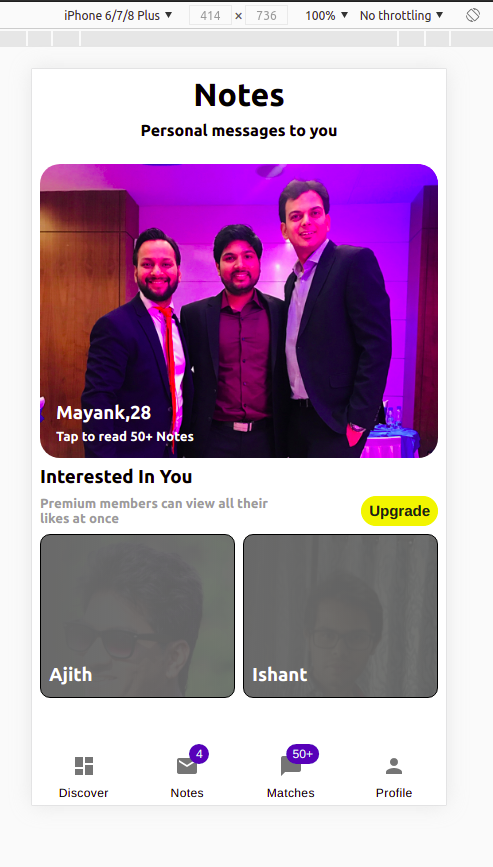
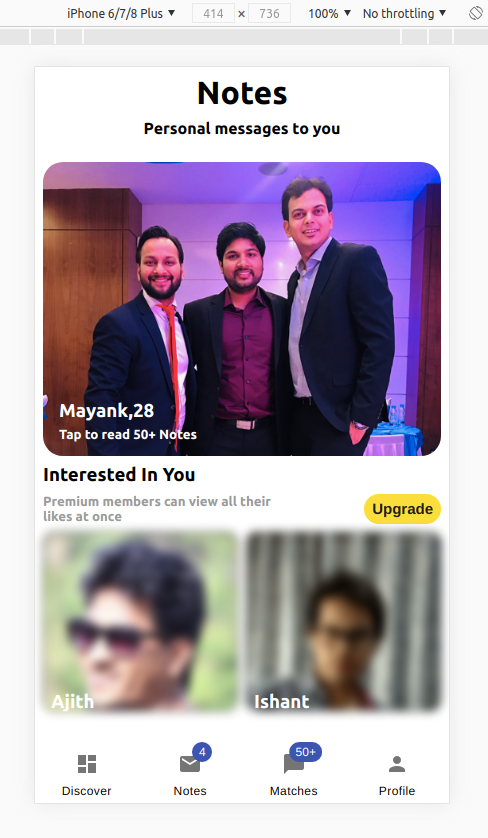
changes in home component

diff --git a/src/components/Home.js b/src/components/Home.js
@@ -55,7 +55,7 @@ const useStyles = makeStyles((theme) => ({
         color: 'white',
         padding: "0px",
         margin: "0px",
-        filter: 'none! important'
+        filter: 'none !important'
 
     },
     label: {
@@ -134,23 +134,17 @@ const Home = (props) => {
                             </button>
                         </Grid>
                         {details.likes.profiles.map((profile, index) => (
-                            <Grid item xs={6} sm={6} md={3} lg={3}>
-                                <div key={index} style={{ backgroundImage: `linear-gradient(90deg, rgba(105,105,105,1), rgba(105,105,105,0.95), rgba(105,105,105,0.9)),url(${profile.avatar})`, border: '1px solid black', height: "22vh", backgroundSize: "cover", borderRadius: "10px" }}>
+                            <Grid item xs={6} sm={6} md={3} lg={3} key={index}>
+                                <div style={{ position: 'relative' }}>
+                                    <div style={{ position: 'abbsolute', backgroundImage: `url(${profile.avatar})`, filter: "blur(5px)", zIndex: -1, border: '1px solid black', height: "24vh", backgroundSize: "cover", borderRadius: "10px" }}>
+                                    </div>
                                     <div className={classes.detailDivBlur}>
-                                        <h3 key={index} className={classes.blurName} >{profile.first_name}</h3>
+                                        <h3 className={classes.blurName} style={{ filter: 'none', zIndex: 51, position: 'absolute', top: '85%' }}>{profile.first_name}</h3>
                                     </div>
                                 </div>
-
                             </Grid>
-                        ))
-                        }
-
-
-
+                        ))}
                     </Grid>
-
-
-
                 </div>
                 <Footer />
             </Fragment>)

diff --git a/src/components/VerifyOtp.js b/src/components/VerifyOtp.js
@@ -75,6 +75,7 @@ const VerifyOtp = (props) => {
     const handleChange = (e) => {
         if (otp.length > 3) {
             alert('Otp cannot be greater than 4');
+            setOtp('');
         }
         else {
             setOtp(e.target.value);
